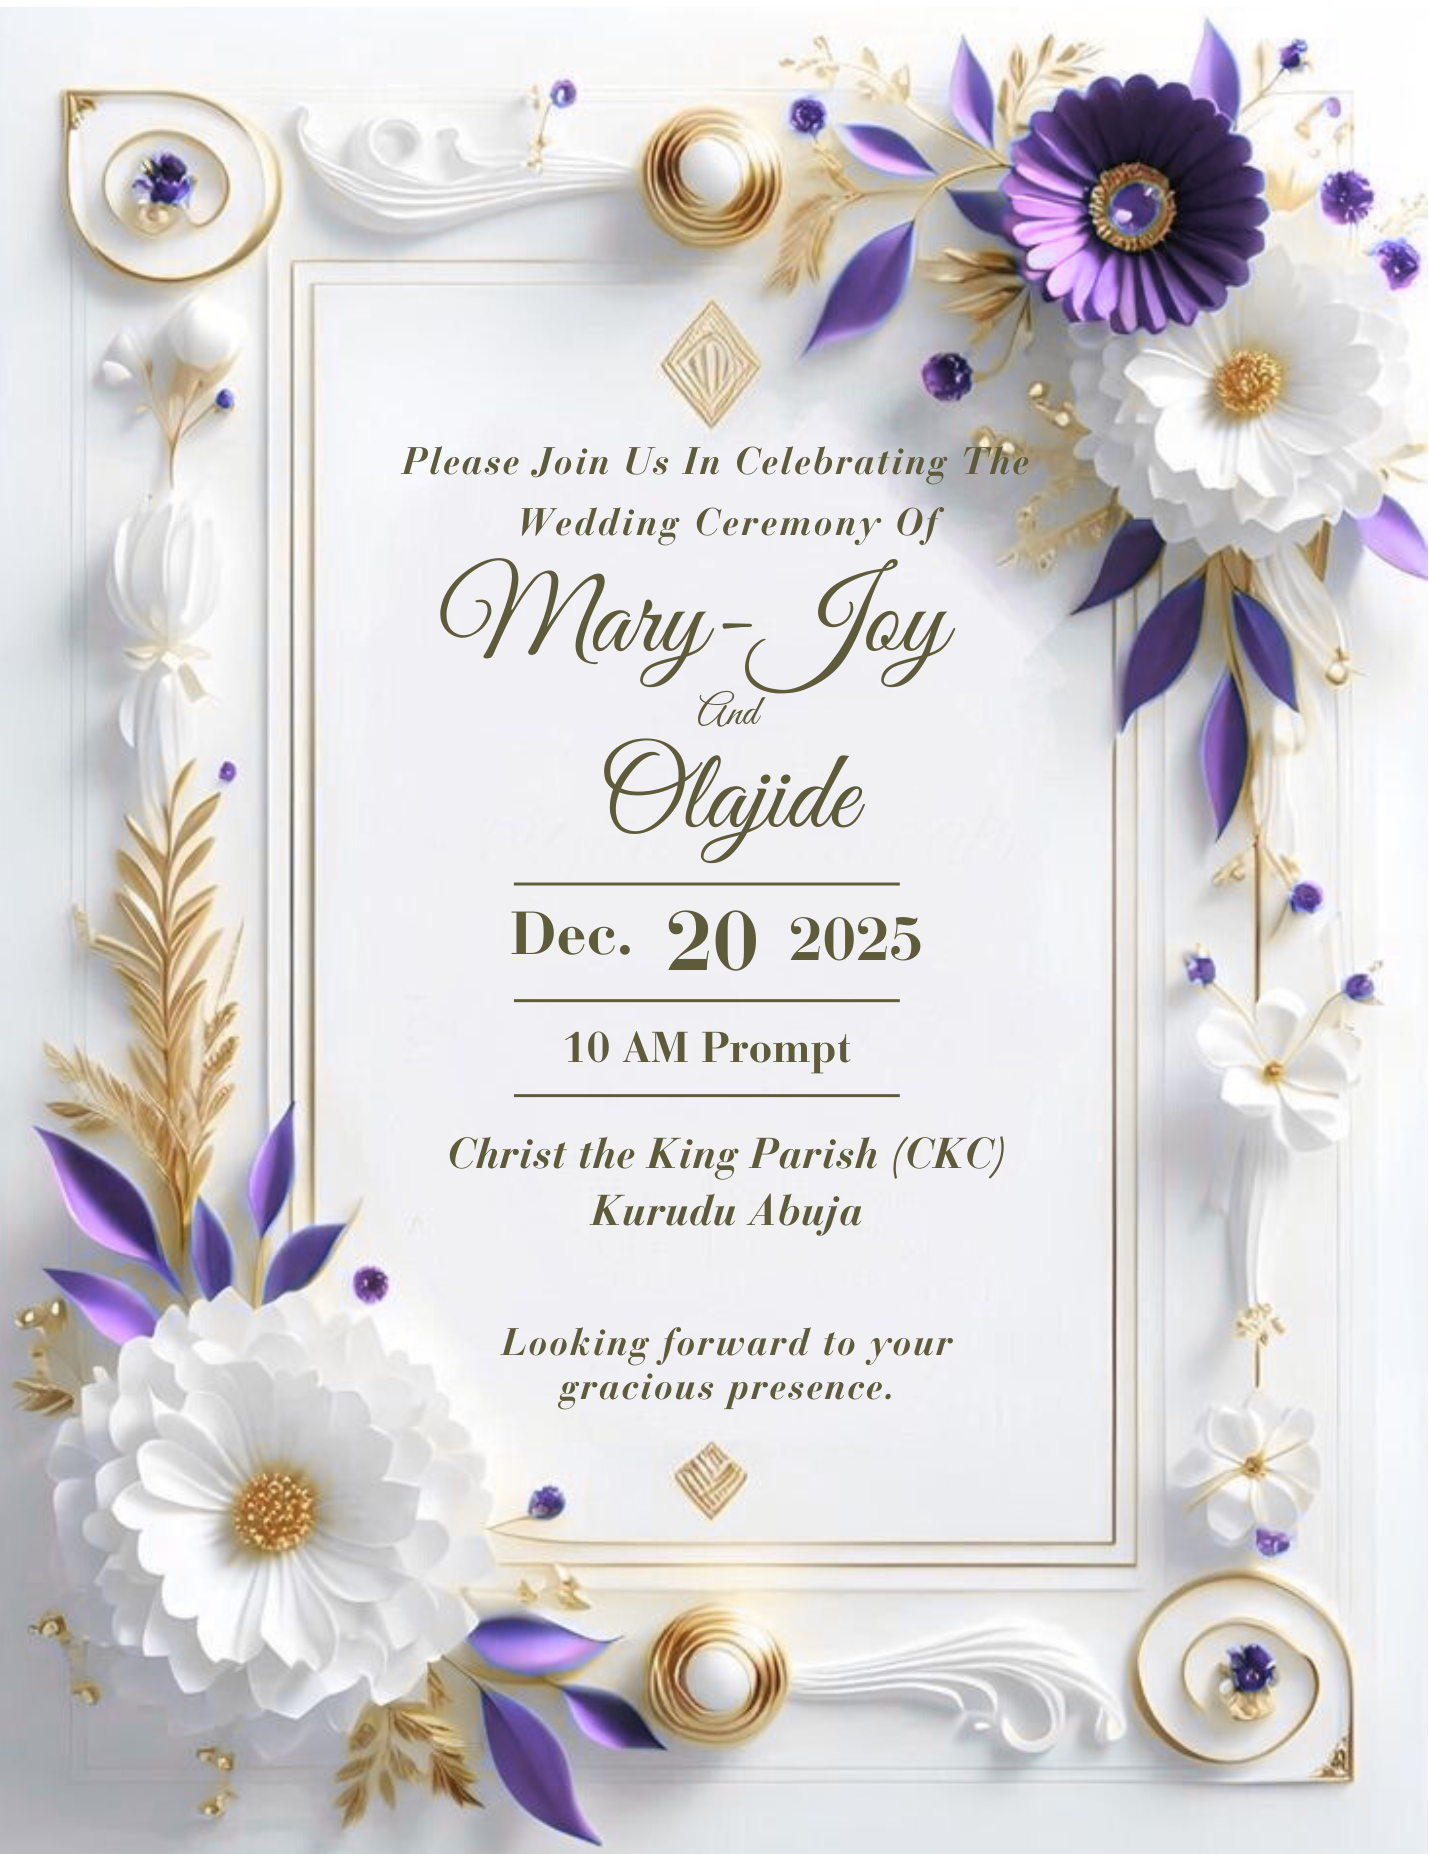
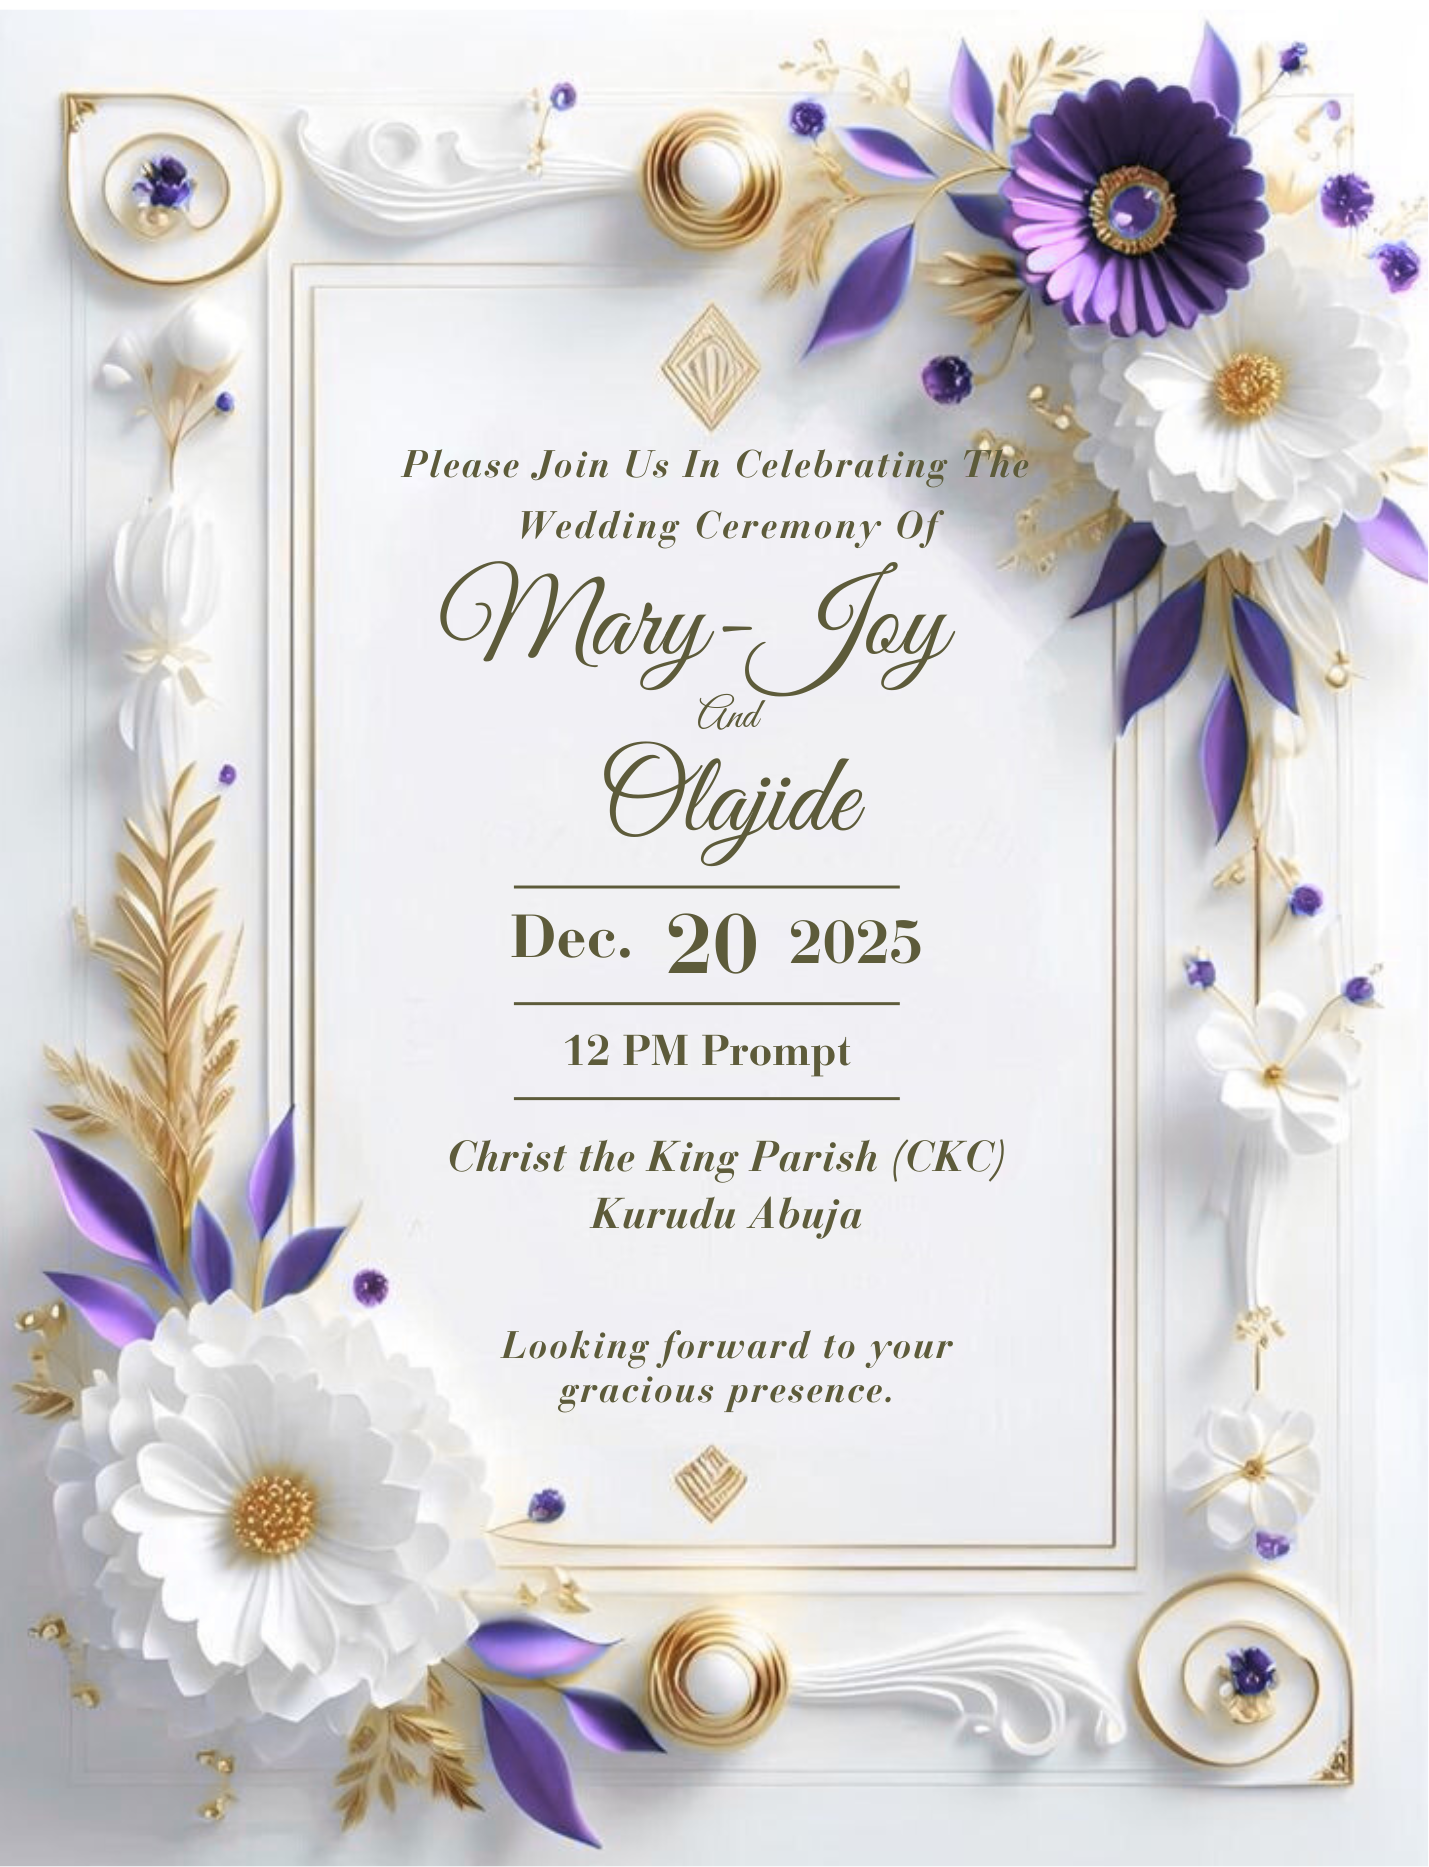
updated the mass time

diff --git a/src/components/guest/RSVPPageClient.tsx b/src/components/guest/RSVPPageClient.tsx
@@ -242,14 +242,14 @@ export default function RSVPPageClient({
               <MapButton
                 href={getGoogleMapsUrl(churchLocation)}
                 title="Ceremony (Church)"
-                subtitle="Christ The King Catholic Church, Kurudu, Abuja - 10:00 AM"
+                subtitle="Christ The King Catholic Church, Kurudu, Abuja - 12:00 PM"
                 Icon={FaChurch}
               />
 
               <MapButton
                 href={getGoogleMapsUrl(receptionLocation)}
                 title="Reception"
-                subtitle="Yuby Resort Orozo Abuja — 1:00 PM"
+                subtitle="Yuby Resort Orozo Abuja — 2:00 PM"
                 Icon={FaUtensils}
               />
             </div>
